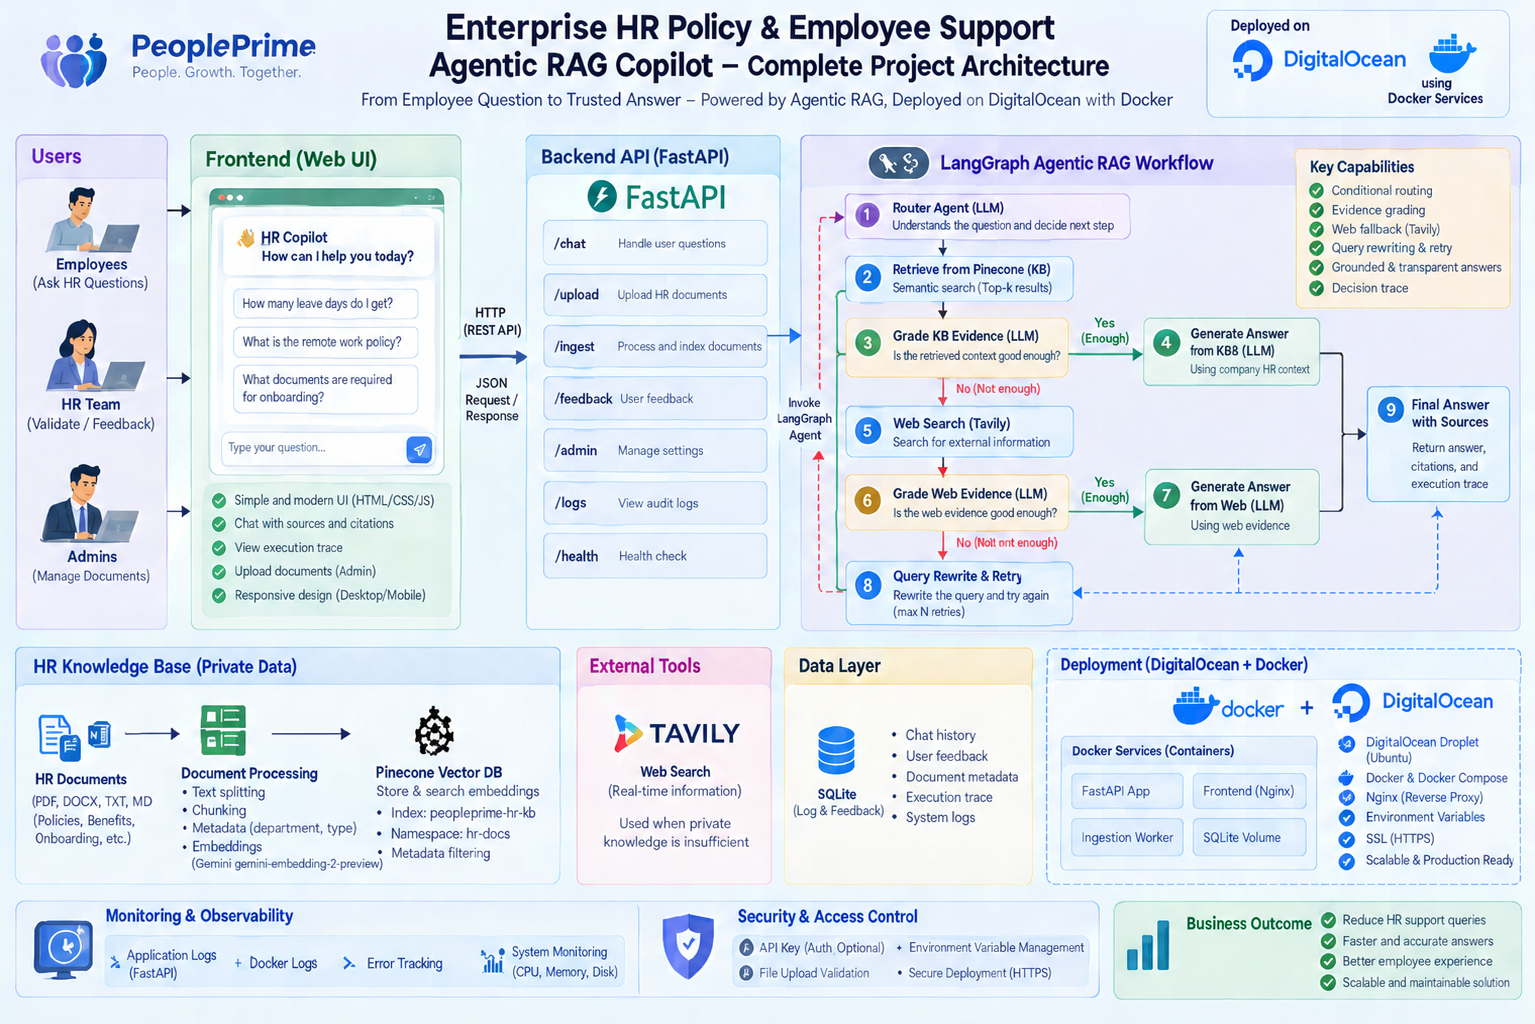
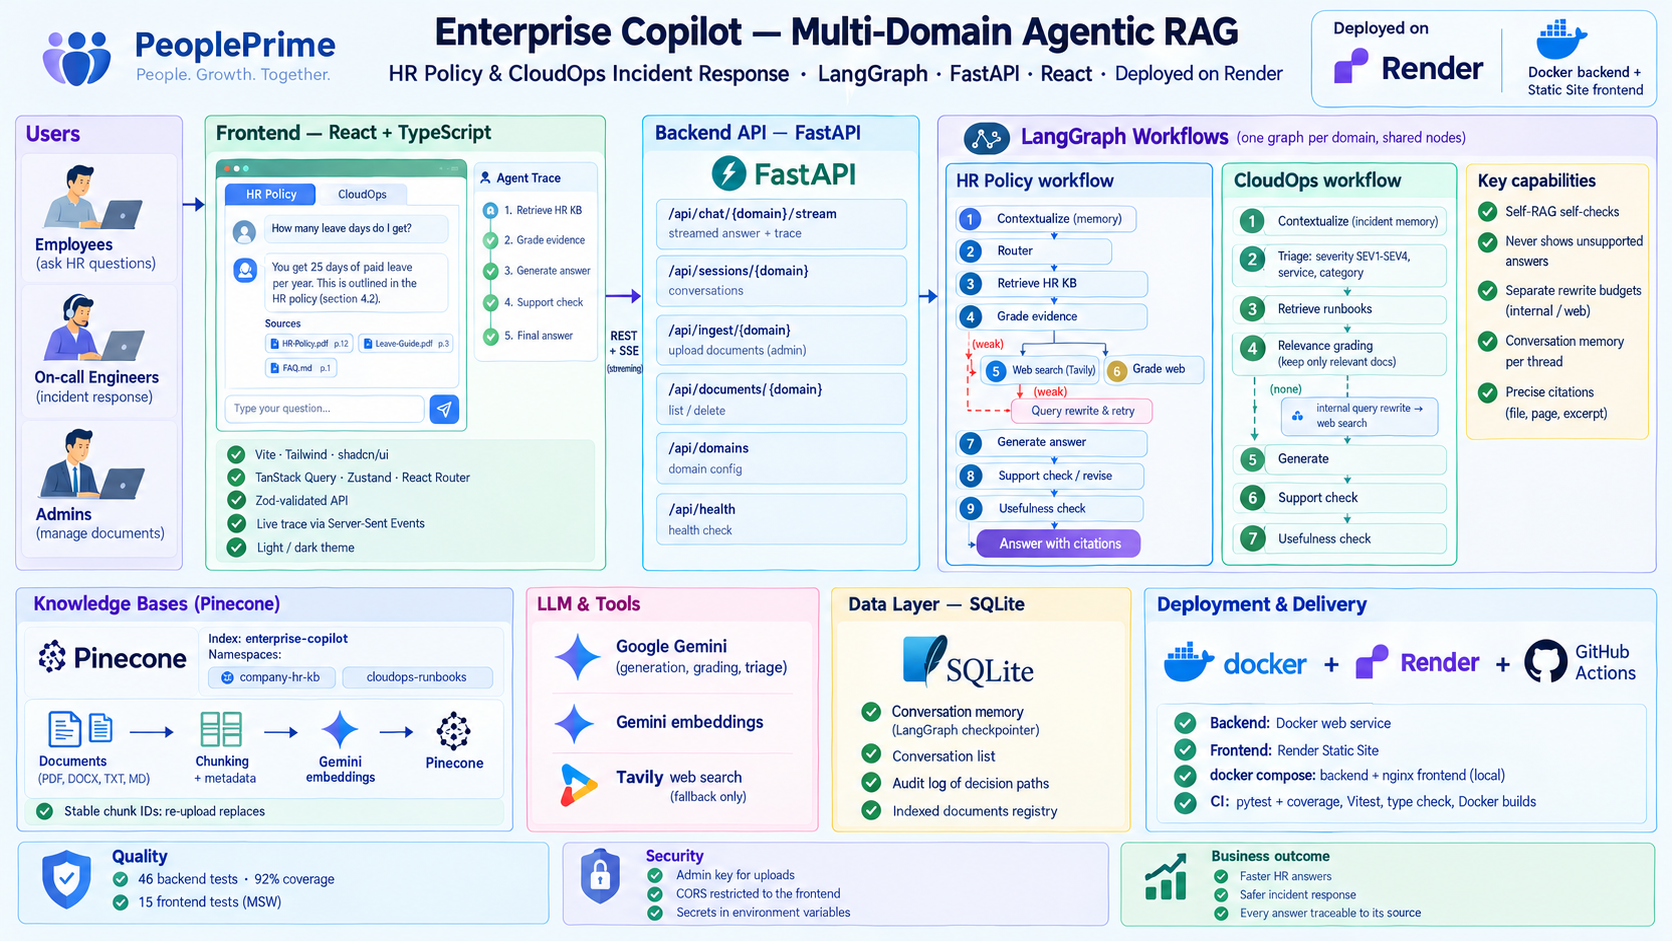
Add Render blueprint, CI and updated architecture diagram

diff --git a/frontend/src/api/stream.ts b/frontend/src/api/stream.ts
@@ -1,6 +1,6 @@
 // The agent's progress arrives as Server-Sent Events. EventSource only supports GET and
 // axios does not stream response bodies in the browser, so this uses fetch directly.
-import { ApiError, detailMessage } from './http'
+import { API_BASE_URL, ApiError, detailMessage } from './http'
 import { chatResponseSchema, type ChatResponse } from './schemas'
 
 export type StreamEvent =
@@ -31,7 +31,7 @@ export async function streamChat(
 ): Promise<void> {
   let res: Response
   try {
-    res = await fetch(new URL(`/api/chat/${domain}/stream`, window.location.origin), {
+    res = await fetch(new URL(`${API_BASE_URL}/api/chat/${domain}/stream`, window.location.origin), {
       method: 'POST',
       headers: { 'Content-Type': 'application/json', Accept: 'text/event-stream' },
       body: JSON.stringify(body),

diff --git a/frontend/src/api/http.ts b/frontend/src/api/http.ts
@@ -17,7 +17,14 @@ export function detailMessage(detail: unknown, status: number): string {
   return status ? `Request failed (${status})` : 'Cannot reach the server. Is the backend running?'
 }
 
-export const http = axios.create({ baseURL: '/api' })
+/**
+ * Backend origin, baked in at build time. Empty in development and docker compose, where the
+ * API is served on the same origin (Vite proxy / nginx); set when the frontend is hosted on its
+ * own, e.g. VITE_API_BASE_URL=https://enterprise-copilot-api.onrender.com on Render.
+ */
+export const API_BASE_URL = (import.meta.env.VITE_API_BASE_URL ?? '').replace(/\/+$/, '')
+
+export const http = axios.create({ baseURL: `${API_BASE_URL}/api` })
 
 // Every failed request becomes an ApiError with a human-readable message.
 http.interceptors.response.use(

diff --git a/frontend/src/vite-env.d.ts b/frontend/src/vite-env.d.ts
@@ -1,0 +1,10 @@
+/// <reference types="vite/client" />
+
+interface ImportMetaEnv {
+  /** Backend origin when the frontend is hosted separately; empty for same-origin setups. */
+  readonly VITE_API_BASE_URL?: string
+}
+
+interface ImportMeta {
+  readonly env: ImportMetaEnv
+}

diff --git a/tests/test_cors.py b/tests/test_cors.py
@@ -1,0 +1,40 @@
+from fastapi import FastAPI
+from fastapi.middleware.cors import CORSMiddleware
+from fastapi.testclient import TestClient
+from app.main import app
+
+
+def test_no_cors_headers_by_default():
+    # Same-origin setups (Vite proxy, nginx) need no CORS: the API must not advertise any.
+    res = TestClient(app).get("/api/health", headers={"Origin": "https://evil.example"})
+    assert "access-control-allow-origin" not in res.headers
+
+
+def test_configured_origin_is_allowed_for_streaming_and_admin_calls():
+    # Same middleware settings as app/main.py when CORS_ORIGINS is set.
+    api = FastAPI()
+    api.add_middleware(
+        CORSMiddleware,
+        allow_origins=["https://enterprise-copilot.onrender.com"],
+        allow_methods=["GET", "POST", "DELETE"],
+        allow_headers=["Content-Type", "Accept", "X-Admin-Key"],
+    )
+
+    @api.get("/ping")
+    def ping():
+        return {"ok": True}
+
+    client = TestClient(api)
+    preflight = client.options(
+        "/ping",
+        headers={
+            "Origin": "https://enterprise-copilot.onrender.com",
+            "Access-Control-Request-Method": "DELETE",
+            "Access-Control-Request-Headers": "X-Admin-Key",
+        },
+    )
+    assert preflight.status_code == 200
+    assert preflight.headers["access-control-allow-origin"] == "https://enterprise-copilot.onrender.com"
+
+    other = client.get("/ping", headers={"Origin": "https://evil.example"})
+    assert "access-control-allow-origin" not in other.headers

diff --git a/app/main.py b/app/main.py
@@ -1,4 +1,5 @@
 from fastapi import FastAPI
+from fastapi.middleware.cors import CORSMiddleware
 from app.api import chat, health, ingest, sessions
 from app.core.config import get_settings
 from app.core.logging import configure_logging
@@ -16,6 +17,16 @@ init_documents()
 
 # API only: the web UI is the React app in frontend/ (Vite in dev, nginx or a static host in prod).
 app = FastAPI(title=settings.app_name, version="2.0.0")
+
+cors_origins = [o.strip().rstrip("/") for o in settings.cors_origins.split(",") if o.strip()]
+if cors_origins:
+    app.add_middleware(
+        CORSMiddleware,
+        allow_origins=cors_origins,
+        allow_methods=["GET", "POST", "DELETE"],
+        allow_headers=["Content-Type", "Accept", "X-Admin-Key"],
+    )
+
 app.include_router(health.router)
 app.include_router(chat.router)
 app.include_router(ingest.router)

diff --git a/app/core/config.py b/app/core/config.py
@@ -30,6 +30,9 @@ class Settings(BaseSettings):
     max_retrieval_rewrites: int = 1  # CloudOps: internal query rewrites before going to the web
     max_web_rewrites: int = 1
     admin_api_key: str = "change-me-in-production"
+    # Comma-separated origins allowed to call the API from a browser, e.g. the frontend's URL
+    # when it is hosted separately. Empty = same-origin only (Vite proxy, nginx, docker compose).
+    cors_origins: str = ""
     memory_turns: int = 4
     audit_db_path: str = str(BASE_DIR / "data" / "audit.db")
     memory_db_path: str = str(BASE_DIR / "data" / "memory.db")

diff --git a/README.md b/README.md
@@ -1,5 +1,7 @@
 # Enterprise HR Policy & Employee Support Agentic RAG Copilot
 
+[![CI](https://github.com/MamitianaRak/Enterprise-HR-Policy-Employee-Support-Agentic-RAG/actions/workflows/ci.yml/badge.svg)](https://github.com/MamitianaRak/Enterprise-HR-Policy-Employee-Support-Agentic-RAG/actions/workflows/ci.yml)
+
 An end-to-end Forward Deployed Engineer (FDE) project that converts an Agentic RAG workflow into a deployable internal HR product: a **LangGraph + FastAPI** backend (Pinecone, Google Gemini, Tavily) and a **React + TypeScript** frontend that streams the agent's reasoning live, packaged with **Docker**.
 
 ## 1. Business Problem
@@ -309,12 +311,22 @@ Open `http://localhost:5173`. The Vite dev server forwards `/api` to the backend
 
 ```bash
 pip install -r requirements-dev.txt
-pytest                      # backend: fake LLM, retriever and web search, no API keys needed
+pytest --cov=app            # backend: fake LLM, retriever and web search, no API keys needed
 
 cd frontend
 npm test                    # frontend: Vitest + Testing Library, API mocked with MSW
 npm run typecheck
 ```
+
+### Continuous integration
+
+`.github/workflows/ci.yml` runs on every push and pull request:
+
+| Job | Steps |
+|---|---|
+| Backend | `pytest` with coverage (report uploaded as an artifact) |
+| Frontend | `oxlint`, `tsc`, Vitest, production build |
+| Docker | Builds both images (after the two test jobs pass), with layer caching |
 
 ## Docker (deployment)
 
@@ -332,7 +344,26 @@ docker compose up --build
 docker compose run --rm backend python ingest_sample_kb.py --domain hr   # index the sample documents
 ```
 
-SQLite data lives in the `backend-data` volume. Both images honour the `PORT` variable, so they can also run as separate web services on a container host such as Render.
+SQLite data lives in the `backend-data` volume. Both images honour the `PORT` variable, so they can also run as separate web services on a container host.
+
+## Deploying to Render
+
+`render.yaml` is a [Render Blueprint](https://render.com/docs/blueprint-spec) that creates two services:
+
+| Service | Type | Details |
+|---|---|---|
+| `enterprise-copilot-api` | Docker web service (free) | Built from `Dockerfile`, health check `/api/health` |
+| `enterprise-copilot` | Static Site (free) | Render builds `frontend/`; the app calls the backend directly (`VITE_API_BASE_URL`), and the backend only accepts that origin (`CORS_ORIGINS`) |
+
+Steps:
+
+1. Push the repository to GitHub.
+2. In Render: **New → Blueprint**, select the repository. Render reads `render.yaml`.
+3. Enter the secrets when prompted: `GOOGLE_API_KEY`, `PINECONE_API_KEY`, `TAVILY_API_KEY`. `ADMIN_API_KEY` is generated; copy it from the backend's **Environment** tab to upload documents.
+4. After the first deploy, open both services and check their `.onrender.com` URLs. If Render added a suffix because a name was taken, update `VITE_API_BASE_URL` (frontend) and `CORS_ORIGINS` (backend), then redeploy both.
+5. Index the knowledge bases once, from your machine with the same `.env` values (the Pinecone index is shared): `python ingest_sample_kb.py --domain hr` and `--domain cloudops`.
+
+On the free plan the backend sleeps after 15 minutes of inactivity (the first request then takes about a minute), and its SQLite data (conversations, audit) is reset on every restart or deploy. The Pinecone knowledge base is unaffected.
 
 ## API
 
